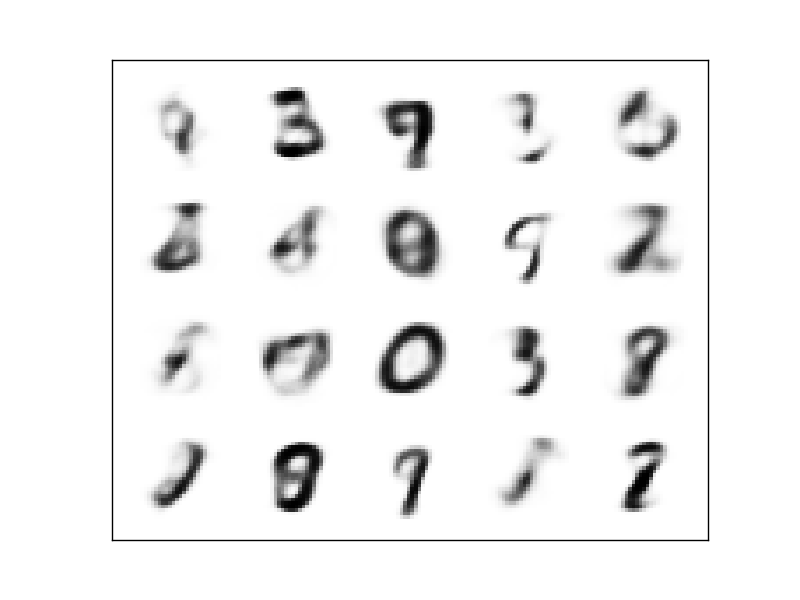
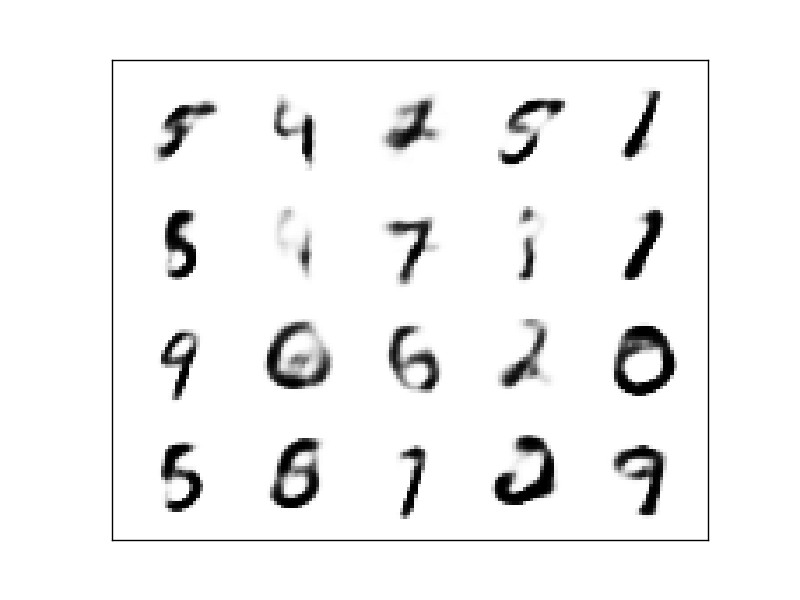
Made variational autoencoder demo use bigger nets

diff --git a/examples/variational_autoencoder.py b/examples/variational_autoencoder.py
@@ -63,6 +63,8 @@ def p_images_given_latents(gen_params, images, latents):
     return bernoulli_log_density(images, preds)
 
 def vae_lower_bound(gen_params, rec_params, data, rs):
+    # We use a simple Monte Carlo estimate of the KL
+    # divergence from the prior.
     q_means, q_log_stds = nn_predict_gaussian(rec_params, data)
     latents = sample_diag_gaussian(q_means, q_log_stds, rs)
     q_latents = diag_gaussian_log_density(latents, q_means, q_log_stds)
@@ -75,8 +77,8 @@ if __name__ == '__main__':
     # Model hyper-parameters
     latent_dim = 10
     data_dim = 784
-    gen_layer_sizes = [latent_dim, 300, data_dim]
-    rec_layer_sizes = [data_dim, 300, latent_dim * 2]
+    gen_layer_sizes = [latent_dim, 300, 200, data_dim]
+    rec_layer_sizes = [data_dim, 200, 300, latent_dim * 2]
 
     # Training parameters
     param_scale = 0.01
@@ -118,9 +120,8 @@ if __name__ == '__main__':
 
             fake_data = generate_from_noise(gen_params, 20, latent_dim, seed)
             save_images(fake_data, 'vae_samples.png', vmin=0, vmax=1)
+
     # The optimizers provided can optimize lists, tuples, or dicts of parameters.
     optimized_params = adam(objective_grad, combined_init_params, step_size=step_size,
                             num_iters=num_epochs * num_batches, callback=print_perf)
-
-
 
